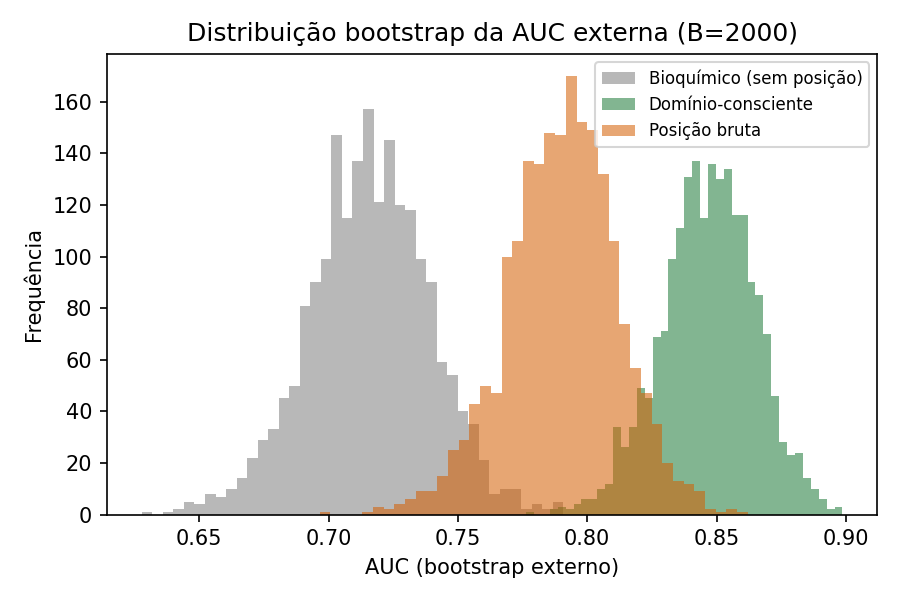
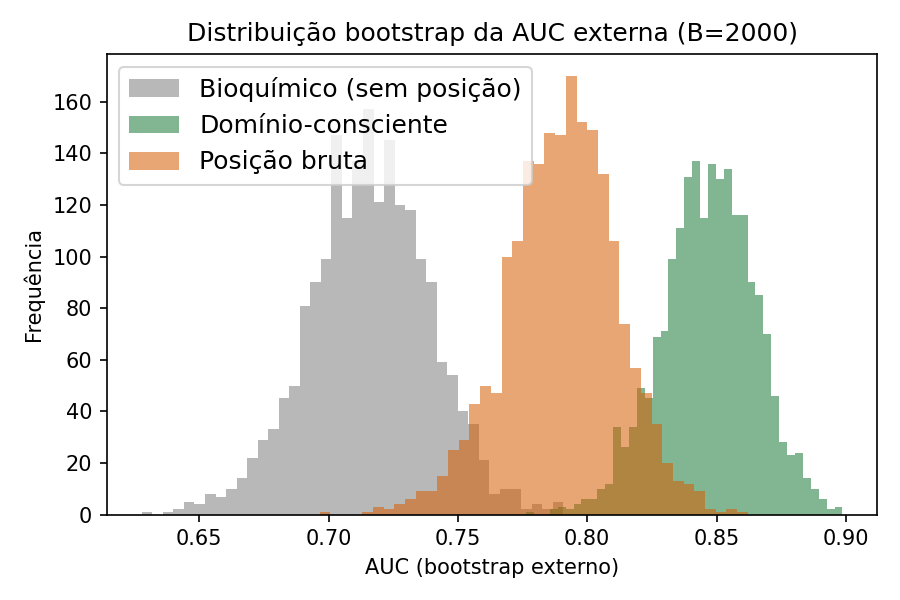
style(figuras): fontes legiveis nas figuras da galeria
Fecha o ajuste de legibilidade nos tres scripts restantes cujas figuras aparecem
nos documentos (variantes 3D, meta-analise e robustez: bootstrap, permutacao,
calibracao, CV repetida, ROC externa). Remove tambem um travessao que era
desenhado no titulo da figura de meta-analise.

Nenhum script que gera figura usada em artigo, suplementar ou galeria mantem
fonte abaixo de 12 pt; todas as copias em docs/ estao sincronizadas com a
ultima geracao.

Changed region(s): [[0.1244, 0.09, 0.5911, 0.33], [0.6533, 0.09, 0.9644, 0.27]]

diff --git a/scratch/monte_carlo_robustness.py b/scratch/monte_carlo_robustness.py
@@ -166,7 +166,7 @@ for name in MODELS:
     plt.plot(fpr, tpr, color=COL[name], lw=2, label=f"{name} (AUC={a:.3f})")
 plt.plot([0, 1], [0, 1], "k--", lw=1, alpha=0.5)
 plt.xlabel("Taxa de falsos positivos"); plt.ylabel("Taxa de verdadeiros positivos")
-plt.title("Curva ROC — coortes externas independentes"); plt.legend(loc="lower right", fontsize=8)
+plt.title("Curva ROC — coortes externas independentes"); plt.legend(loc="lower right", fontsize=12)
 plt.tight_layout(); plt.savefig(os.path.join(OUT, "fig_roc_external.png")); plt.close()
 
 # Fig B: bootstrap AUC distributions
@@ -174,7 +174,7 @@ plt.figure(figsize=(6, 4))
 for name in MODELS:
     plt.hist(boot[name], bins=40, alpha=0.55, color=COL[name], label=name)
 plt.xlabel("AUC (bootstrap externo)"); plt.ylabel("Frequência")
-plt.title(f"Distribuição bootstrap da AUC externa (B={N_BOOT})"); plt.legend(fontsize=8)
+plt.title(f"Distribuição bootstrap da AUC externa (B={N_BOOT})"); plt.legend(fontsize=12)
 plt.tight_layout(); plt.savefig(os.path.join(OUT, "fig_bootstrap_auc.png")); plt.close()
 
 # Fig C: permutation null
@@ -183,7 +183,7 @@ plt.hist(null, bins=40, color="#999999", alpha=0.8, label="AUC sob H0 (rótulos 
 plt.axvline(obs, color="#1b7837", lw=2.5, label=f"AUC observada = {obs:.3f}")
 plt.xlabel("AUC"); plt.ylabel("Frequência")
 plt.title(f"Teste de permutação (N={N_PERM}, p={results['permutation']['p_value']:.1e})")
-plt.legend(fontsize=8); plt.tight_layout()
+plt.legend(fontsize=12); plt.tight_layout()
 plt.savefig(os.path.join(OUT, "fig_permutation.png")); plt.close()
 
 # Fig D: repeated CV boxplot
@@ -201,7 +201,7 @@ plt.figure(figsize=(5, 5))
 plt.plot([0, 1], [0, 1], "k--", lw=1, alpha=0.5, label="Perfeitamente calibrado")
 plt.plot(mids, obs_f, "o-", color="#1b7837", lw=2, label=f"Domínio-consciente (Brier={brier:.3f})")
 plt.xlabel("Probabilidade prevista"); plt.ylabel("Frequência observada de patogenicidade")
-plt.title("Curva de calibração — coortes externas"); plt.legend(fontsize=8)
+plt.title("Curva de calibração — coortes externas"); plt.legend(fontsize=12)
 plt.tight_layout(); plt.savefig(os.path.join(OUT, "fig_calibration.png")); plt.close()
 
 print(f"\n>> DONE. Wrote {OUT}/results.json and 5 figures.")

diff --git a/scratch/meta_analysis.py b/scratch/meta_analysis.py
@@ -122,17 +122,17 @@ for yi, r in zip(ys, rows):
     ax.plot([r["ci_lo"], r["ci_hi"]], [yi, yi], "-", color="#333333", lw=1.5)
     ax.plot(r["auc"], yi, "s", color="#1b7837", ms=7)
     ax.text(1.005, yi, f"{r['auc']:.3f} [{r['ci_lo']:.3f}, {r['ci_hi']:.3f}]  (n={r['n']})",
-            va="center", fontsize=8)
+            va="center", fontsize=12)
 # pooled diamond
 yd = -1.2
 ax.add_patch(plt.Polygon([[pooled_lo, yd], [pooled, yd + 0.25], [pooled_hi, yd], [pooled, yd - 0.25]],
                          closed=True, color="#d55e00"))
-ax.text(1.005, yd, f"{pooled:.3f} [{pooled_lo:.3f}, {pooled_hi:.3f}]  (agrupado)", va="center", fontsize=8, fontweight="bold")
+ax.text(1.005, yd, f"{pooled:.3f} [{pooled_lo:.3f}, {pooled_hi:.3f}]  (agrupado)", va="center", fontsize=12, fontweight="bold")
 ax.axvline(pooled, color="#d55e00", ls=":", lw=1, alpha=0.6)
 ax.axvline(0.5, color="gray", ls="--", lw=1, alpha=0.5)
-ax.set_yticks(list(ys) + [yd]); ax.set_yticklabels([r["cohort"] for r in rows] + ["Agrupado (efeitos aleatórios)"], fontsize=8)
+ax.set_yticks(list(ys) + [yd]); ax.set_yticklabels([r["cohort"] for r in rows] + ["Agrupado (efeitos aleatórios)"], fontsize=12)
 ax.set_xlim(0.45, 1.35); ax.set_xlabel("AUC-ROC (IC 95%)")
-ax.set_title(f"Meta-análise de generalização externa — modelo-carro-chefe (domínio + ESM-2)\nAUC agrupada {pooled:.3f} (IC95% {pooled_lo:.3f}–{pooled_hi:.3f}); I²={I2:.0f}%")
+ax.set_title(f"Meta-análise de generalização externa: modelo-carro-chefe (domínio + ESM-2)\nAUC agrupada {pooled:.3f} (IC95% {pooled_lo:.3f}–{pooled_hi:.3f}); I²={I2:.0f}%")
 ax.spines[["top", "right"]].set_visible(False)
 plt.tight_layout(); plt.savefig(os.path.join(OUT, "fig_meta_forest.png")); plt.close()
 print(">> wrote meta_analysis.json and fig_meta_forest.png")

diff --git a/scratch/compose_variants_figure.py b/scratch/compose_variants_figure.py
@@ -38,7 +38,7 @@ for ax, img, title, sub in panels:
     ax.imshow(img)
     ax.set_axis_off()
     ax.set_title(title, fontsize=12.5, fontweight="bold", color="#1a1a1a", pad=6, loc="left")
-    ax.text(0.0, -0.035, sub, transform=ax.transAxes, fontsize=9.2,
+    ax.text(0.0, -0.035, sub, transform=ax.transAxes, fontsize=12,
             color="#333333", ha="left", va="top")
 
 # shared colour legend along the bottom
@@ -52,7 +52,7 @@ legend_handles = [
            label="Coordenação tiol–Zn²⁺"),
 ]
 fig.legend(handles=legend_handles, loc="lower center", ncol=5, frameon=False,
-           fontsize=8.6, bbox_to_anchor=(0.5, -0.005), handletextpad=0.5,
+           fontsize=12, bbox_to_anchor=(0.5, -0.005), handletextpad=0.5,
            columnspacing=1.4)
 
 fig.subplots_adjust(left=0.008, right=0.992, top=0.93, bottom=0.11, wspace=0.02)
